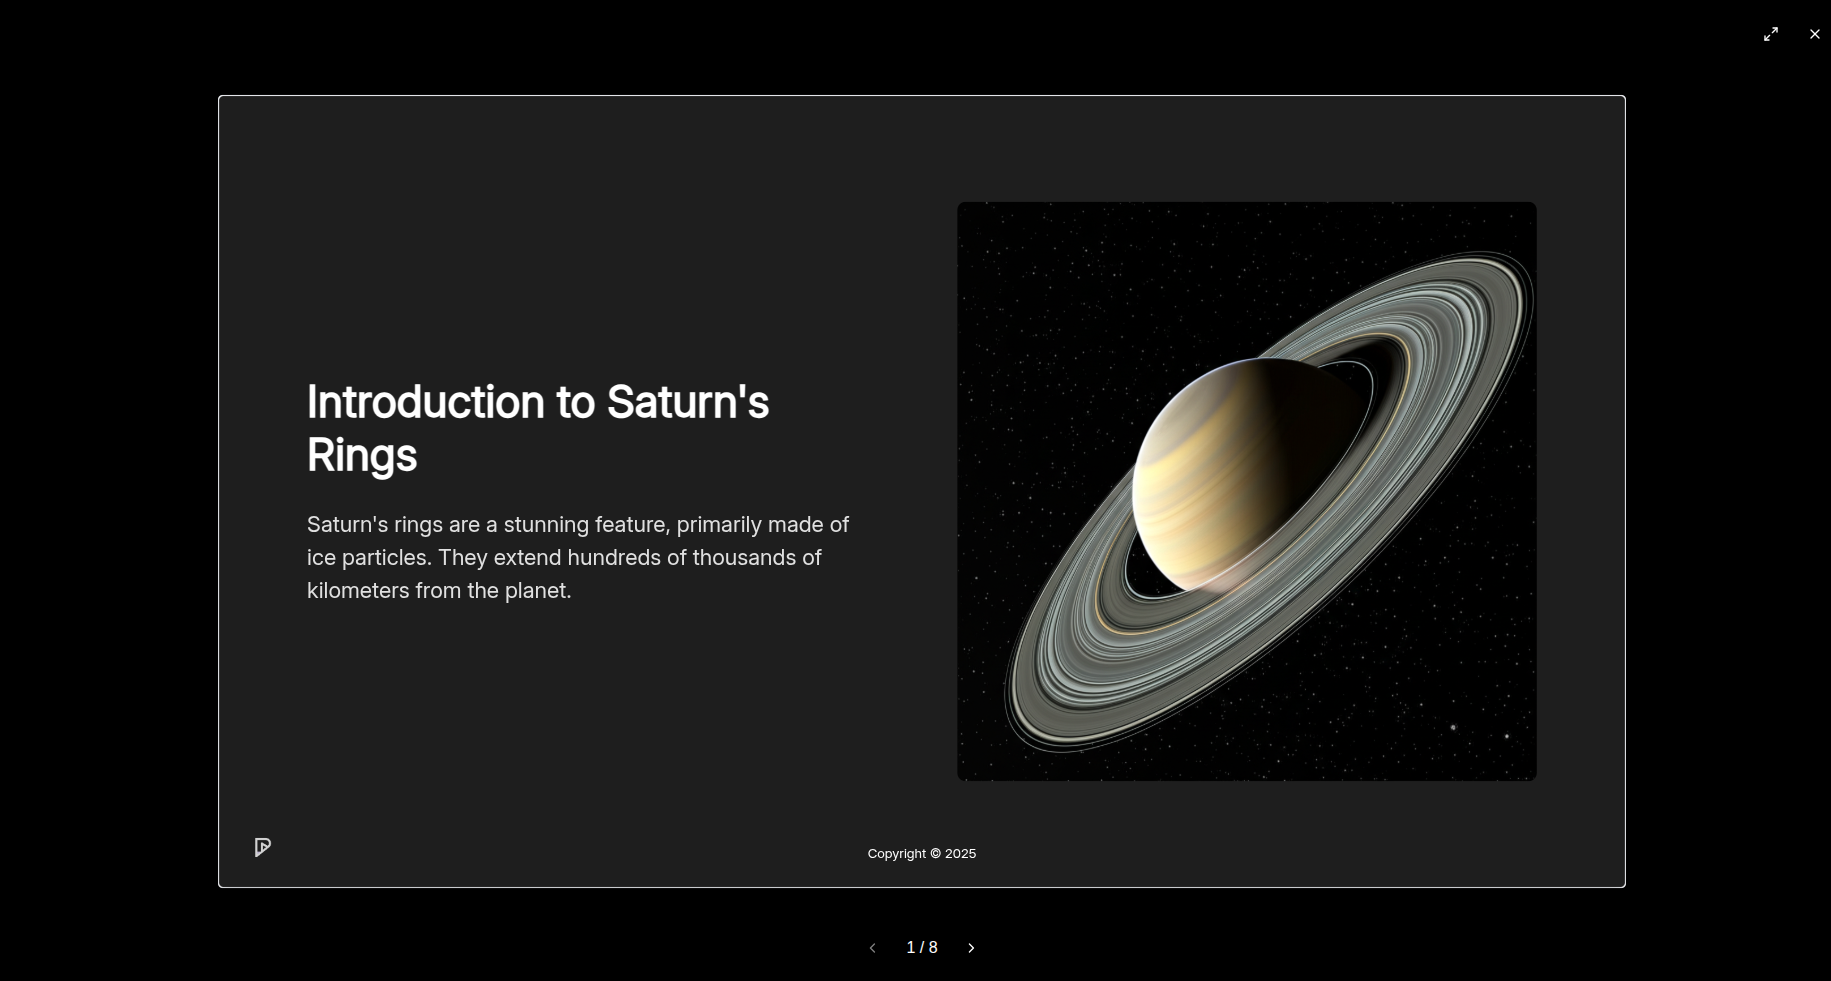
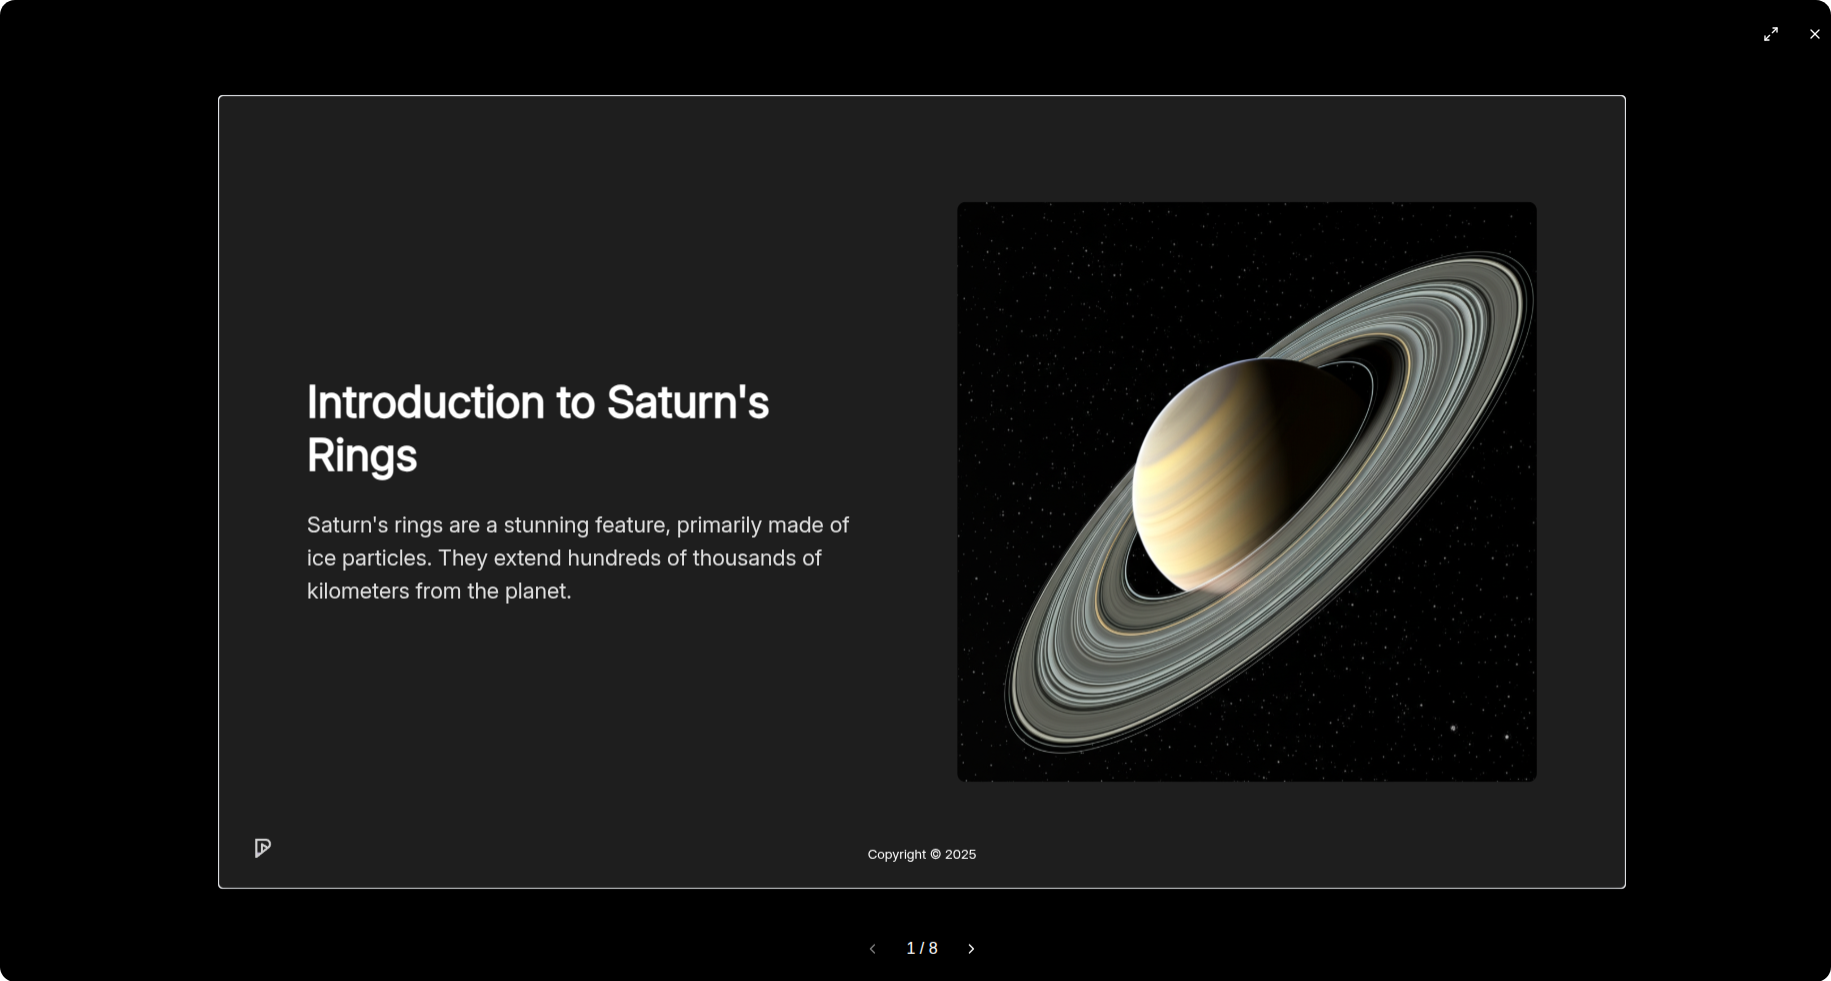
add license to readme

diff --git a/README.md b/README.md
@@ -1,4 +1,4 @@
-# Presenton: Open-Source, Locally-Run AI Presentation Generator - Gamma Alternative
+# Presenton: Open-Source, Locally-Run AI Presentation Generator (Gamma Alternative)
 
 ---
 
@@ -29,7 +29,7 @@
 ### 3. Review and edit outline
 ![Demo](resources/readme/images/outline.png)
 
-### 4. Generate presentation
+### 4. Select theme
 ![Demo](resources/readme/images/select-theme.png)
 
 ### 5. Present on app
@@ -38,5 +38,11 @@
 ### 6. Change theme
 ![Demo](resources/readme/images/change-theme.png)
 
-### 7. Export presentation
+### 7. Export presentation as PDF and PPTX
 ![Demo](resources/readme/images/export-presentation.png)
+
+
+## Licence
+
+Apache 2.0
+